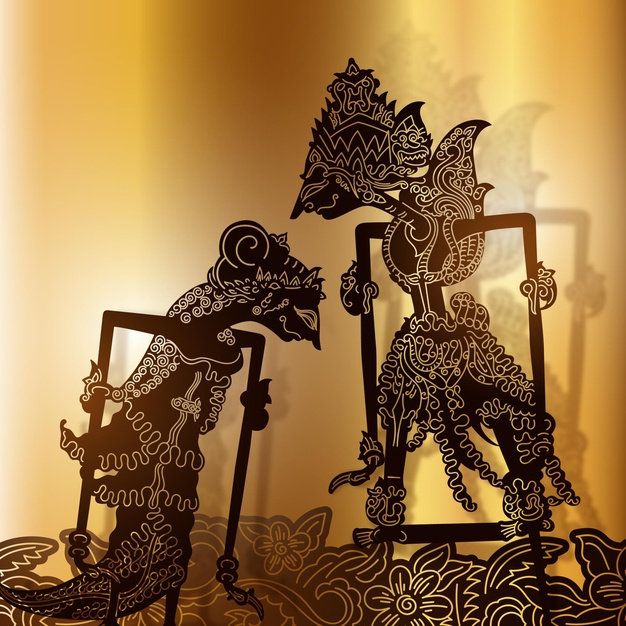
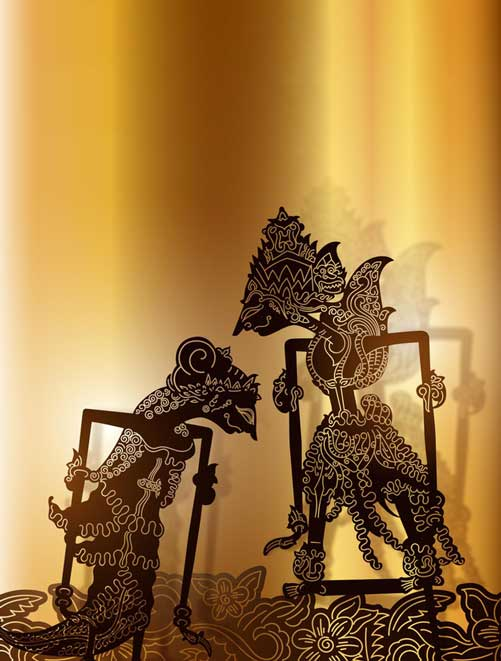
update gambar dan padding di form

diff --git a/assets/css/modified.css b/assets/css/modified.css
@@ -67,7 +67,7 @@ body {
    }
 
    #fh5co-header2 {
-      background-image: url(../../photos/cover.png);
+      background-image: url(../../photos/cover.jpg);
       background-attachment: scroll;
       background-repeat: no-repeat;
       background-size: contain;
@@ -88,12 +88,13 @@ body {
    }
 
    #fh5co-header2 {
-      background-image: url(../../photos/cover1.png);
-      background-attachment: fixed;
+      background-image: url(../../photos/cover1.jpg);
+      /* background-attachment: fixed; */
       background-repeat: no-repeat;
-      background-size: auto;
-      background-position: top;
-      height: 790px;
+      background-size: cover;
+      background-position: center;
+      height: 95vh;
+      border-radius: 0.5rem;
    }
 
    .caseless {

diff --git a/index.php b/index.php
@@ -326,26 +326,6 @@
 				</div>
 			</div>
 
-			<!-- <div id="fh5co-testimonial" style="background-color:#3d2505;">
-				<div class="container">
-					<div class="row">
-						<div class="row animate-box">
-							<div class="col-md-8 col-md-offset-2 text-center fh5co-heading">
-								<span></span>
-								<h2 style="color:#ffffff;font-family:AksaraJawa;display:block;font-size:32px;">Rsvp
-								</h2>
-								<br>
-								<iframe
-									src="https://docs.google.com/forms/d/e/1FAIpQLScpc4wpYmaXnFpPkdvuSj1fptWp0hQP0KSE5zv5igrFUViwYg/viewform?embedded=true"
-									width="360" height="879" frameborder="0" marginheight="0"
-									marginwidth="0">Loading…</iframe>
-								<br><br>
-							</div>
-						</div>
-					</div>
-				</div>
-			</div> -->
-
 			<div id="fh5co-testimonial">
 				<div class="container">
 					<div class="row">
@@ -355,7 +335,7 @@
 									<span>Best Wishes</span>
 									<h2 style="color:#3d2505;font-family:AksaraJawa;display:block;font-size:32px;">
 										Ucapan dan Do'a</h2>
-									<div>
+									<div style="padding:0 15px">
 										<form method="POST" id="form-greeting" class="form-horizontal text-center">
 											<input type="text" name="Name" class="form-control" placeholder="Nama Kamu" id="nama_kamu" required>
 											<textarea name="Greeting" class="form-control" placeholder="Tulis Ucapan dan Doa" id="greating" required></textarea>
